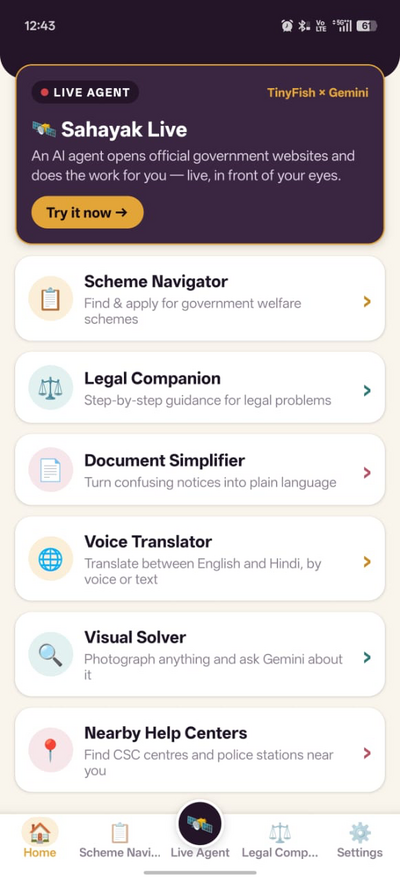
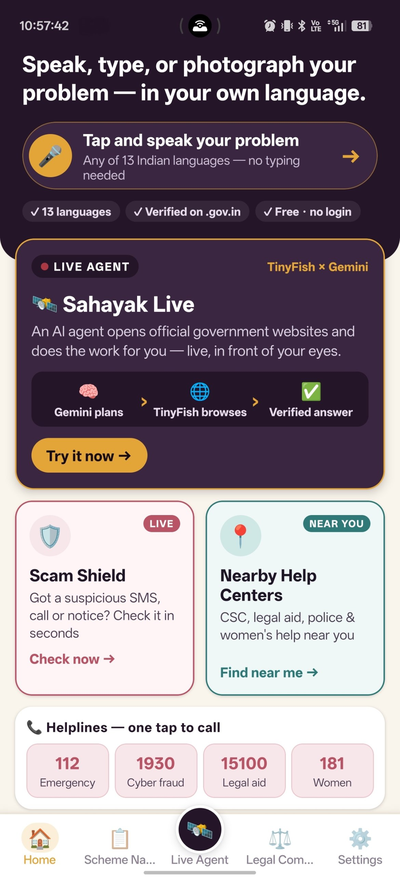
README: new home screenshots (English + Hindi), measured timings, Gemini x TinyFish cross-check flow, live self-test, business model
Claude-Session: https://claude.ai/code/session_01MCTNM78CrmoCRJn8j5Vk2K

diff --git a/README.md b/README.md
@@ -9,11 +9,12 @@ Built by **Team Hackpeeps**.
 > 🎬 **Demo video:** _add your video link here_  ·  📱 **Android APK:** built with EAS (see [Build](#build-the-android-apk))
 
 <p align="center">
-  <img src="docs/screenshots/home.png" width="190" alt="Home screen"/>
-  <img src="docs/screenshots/sahayak-live.png" width="190" alt="Sahayak Live: TinyFish cloud browser streaming the official CEIR site inside the app"/>
-  <img src="docs/screenshots/languages.png" width="190" alt="13 Indian languages"/>
+  <img src="docs/screenshots/home.png" width="180" alt="Home screen: Sahayak Live, Scam Shield, Nearby Help Centres and one-tap helplines"/>
+  <img src="docs/screenshots/home-hindi.png" width="180" alt="The same home screen in Hindi"/>
+  <img src="docs/screenshots/sahayak-live.png" width="180" alt="Sahayak Live: TinyFish cloud browser streaming the official CEIR site inside the app"/>
+  <img src="docs/screenshots/languages.png" width="180" alt="13 Indian languages"/>
 </p>
-<p align="center"><i>Home · Sahayak Live (TinyFish agent live on ceir.gov.in for a stolen phone) · 13 languages</i></p>
+<p align="center"><i>Home (English &amp; Hindi) · Sahayak Live (TinyFish agent live on ceir.gov.in for a stolen phone) · 13 languages</i></p>
 
 ---
 
@@ -37,9 +38,10 @@ Citizens don't lack schemes or laws — they lack a simple, trustworthy way to r
 | Live web (TinyFish) | **🛰 Sahayak Live** | Speak a task → an AI cloud browser opens the official site and does it **live inside the app**, with a step timeline. |
 | | **✅ Verify Live** | One tap under any answer → cross-checked against official pages → *Verified / Updated / Partial* + sources. |
 | | **🛡 Scam Shield** | Paste or photograph an SMS / notice → *Genuine / Suspicious / Likely SCAM* + 1930 helpline guidance. |
-| | **📍 Real Help Centres** | GPS → city → real CSC, DLSA, police and One Stop Centres with Call / Directions. |
+| | **📍 Nearby Help Centres** | A core feature on the home screen. GPS → city → real CSC, DLSA, police and One Stop Centres found live, with Call / Directions, filters by type, one-tap helplines (112, 1930, 15100, 181, 14599) and "Nearest on the map" buttons that work even when live search can't. |
 | | **📰 Live Updates** | This week's scheme & fraud-alert news, translated. |
-| Access for all | **13 Indian languages** | Full UI + replies in English, Hindi, Marathi, Bengali, Telugu, Tamil, Gujarati, Urdu, Kannada, Odia, Malayalam, Punjabi, Assamese. |
+| Access for all | **Tap and speak** | One big button on the home screen opens Sahayak Live; no typing needed. |
+| | **13 Indian languages** | Full UI + replies in English, Hindi, Marathi, Bengali, Telugu, Tamil, Gujarati, Urdu, Kannada, Odia, Malayalam, Punjabi, Assamese. |
 | | **Read aloud** | Every answer spoken, adjustable speed. |
 | | **Voice Translator** | Speak in one language, hear another. |
 | | **Visual Solver** | Photograph anything and ask about it. |
@@ -71,23 +73,39 @@ TinyFish is what turns Nyaya Setu from a chatbot into an agent that **works on t
 | **Search** | `GET api.search.tinyfish.ai` | Finds the **exact official page** for Sahayak Live, plus Verify Live, Scam Shield, Real Help Centres and Live Updates. India-located; `.gov.in` / `.nic.in` ranked first; 7-day window for news. |
 | **Fetch** | `POST api.fetch.tinyfish.ai` | Reads official pages as clean markdown for Verify Live and the quick answer; every answer cites its source. |
 
-#### How a Sahayak Live task runs
+#### How a Sahayak Live task runs — Gemini and TinyFish working together
+The app shows this hand-off live as a 4-step strip: **Understand (Gemini) → Find page (TinyFish) → Browse live (TinyFish) → Verify (Gemini)**.
+
 ```mermaid
 flowchart TD
   A[Citizen speaks a task<br/>any of 13 languages] --> B[Gemini plans<br/>official site + search query]
-  B --> C[TinyFish Search + Fetch<br/>reads up to 3 official pages]
+  A --> I0[Gemini instant answer<br/>spoken in ~2 s]
+  B --> C[TinyFish Search + Fetch<br/>reads official pages]
   B --> D[TinyFish Search<br/>finds the EXACT page on the site / myScheme]
-  C --> E[Quick answer spoken in ~15 s]
-  D --> F[TinyFish Web Agent opens it<br/>live stream inside the app]
+  C --> E[Answer read from official pages<br/>~15–26 s]
+  D --> F[TinyFish Web Agent opens it<br/>live stream right under the task]
   F --> G{Blocked? 403 / captcha}
   G -- yes --> H[Move to next official page<br/>up to 3 tries]
   H --> F
   G -- no --> I[Structured result<br/>eligibility · documents · steps · link]
-  I --> J[Gemini explains in the citizen's language<br/>'Verified live on the official website']
-  E -.if the agent can't finish.-> J
+  I --> J[Gemini cross-checks its instant answer<br/>against the official page:<br/>'matches' or 'corrected' — read aloud]
+  E -.if the agent can't finish in 3 min.-> J
+  I0 -.compared in.-> J
 ```
 
-- **Deep-link start.** Starting the agent on the exact scheme page instead of a home page cut a live test run from **94 s to 52 s** (same PMAY-Urban task, TinyFish server timestamps).
+**Measured on 22 Oct 2026** (live end-to-end self-test on real APIs, Android app code):
+
+| Step | Time |
+|---|---|
+| Spoken instant answer (Gemini) | ~2 s |
+| Answer read from official pages (TinyFish Search + Fetch → Gemini) | 15–26 s |
+| Live agent finishes on myScheme (PM-KISAN, 16 visible steps) | ~75–105 s |
+| Scam Shield verdict | ~7 s |
+| Help Centres found live (East Delhi) | ~5 s |
+
+The live agent does not always finish (slow government pages); after 3 minutes the app keeps the answer read from official pages, so the citizen is never left empty-handed. When the agent finishes, its live view stays on screen for 10 s with a ✓ DONE badge.
+
+- **Deep-link start.** The agent starts on the exact scheme page instead of a home page, so it reads instead of searching around.
 - **Knows which government sites block cloud browsers.** We tested 20 official hosts. The ones that return 403 or time out (e.g. `beneficiary.nha.gov.in`, `pmjay.gov.in`, `nfsa.gov.in`) are in `CLOUD_BLOCKED` and never chosen; the agent is sent to a reachable official page instead (e.g. `myscheme.gov.in/schemes/ab-pmjay`).
 - **Never stuck, never empty-handed.** If an early step shows 403 / captcha / a blank page, the run is cancelled and restarted on the next official page. A quick Search + Fetch answer from the same official sources is always ready.
 - **Read-only and official-only by design.** Every agent goal says: never log in, never type personal details, never submit forms or pay, and never leave `.gov.in` / `.nic.in` websites.
@@ -95,11 +113,13 @@ flowchart TD
 
 Excerpt of the goal the app sends to the TinyFish Web Agent (`buildGoal` in `liveIntel.js`):
 ```text
-You are already on the official page that should contain the answer. Work fast:
+The citizen is WATCHING this browser live on their phone, so browse visibly and steadily:
+scroll down through the page and open each relevant section one by one so they can follow
+along. Stay focused on this task — about 10 to 20 actions — and do not wander to unrelated pages.
 1. If a pop-up, cookie banner or language selector appears, close it.
-2. Read the page. Scroll down. If it has tabs (Benefits, Eligibility, Documents Required,
-   Application Process, FAQ), click each relevant tab and read it.
-3. Only if this page does not answer the task, click at most ONE relevant link on the same site.
+2. Scroll through the whole page. Open and read each section that answers the task, one at a
+   time: Details, Benefits, Eligibility, Exclusions, Application Process, Documents Required.
+3. Open ONE more official page only if the documents or how-to-apply steps are missing here.
 4. Never log in, never type personal details, never submit forms, never pay, and never
    leave official .gov.in / .nic.in websites.
 Return JSON: title, summary, eligibility, benefits, documents[], steps[], fees, helpline, official_link.
@@ -126,7 +146,7 @@ If the page shows 403 / Forbidden / a captcha / stays blank, return {"blocked": 
 |---|---|
 | App | React Native 0.86 · React 19.2 · **Expo SDK 57** |
 | Navigation | React Navigation 7 (bottom tabs + native stack) |
-| AI | Google Gemini `gemini-3.5-flash-lite` (text, image and audio in one API) |
+| AI | Google Gemini `gemini-3.5-flash-lite` (text, image and audio in one API), with automatic failover to `gemini-flash-lite-latest` → `gemini-3-flash-preview` → `gemini-flash-latest` → `gemini-3.8-flash` when a model is busy |
 | Live web | TinyFish Agent, Search & Fetch APIs · `react-native-webview` for the live view |
 | Voice | `expo-audio` (recording) · `expo-speech` (text-to-speech) |
 | Device | `expo-image-picker` (camera) · `expo-location` (GPS) · `expo-file-system` |
@@ -142,10 +162,11 @@ src/screens/               Home, Scheme Navigator, Legal Companion, Document Sim
 src/services/geminiApi.js  Gemini client (text, image, audio, JSON) with retry
 src/services/tinyfishApi.js TinyFish Agent / Search / Fetch client (+ demo mode)
 src/services/liveIntel.js  Verify Live, Scam Shield, Help Centres, Live Updates, Sahayak Live
-src/components/            AgentLiveView (live browser), LiveCard, chat UI
+src/components/            AgentLiveView (live browser), PipelineStrip (Gemini × TinyFish steps), LiveCard, chat UI
 src/utils/                 voiceRecorder, speaker, language helpers, chat storage
 src/data/                  schemes, legal scenarios, 13-language translations
 scripts/diagnose-sahayak.sh  checks Gemini + all 3 TinyFish APIs from the terminal
+scripts/selftest.cjs       live end-to-end test of the real app services (see below)
 ```
 
 ## Setup
@@ -170,6 +191,13 @@ Without keys the app runs in **demo mode** with sample data, so it never breaks 
 
 **Check the APIs:** `bash scripts/diagnose-sahayak.sh` (prints only HTTP status, never your keys).
 
+**Live self-test:** runs the app's real Gemini + TinyFish code in Node with your `.env` keys — every Gemini model, TinyFish Search / Fetch / Agent, task planning, full Sahayak Live runs (English + Hindi), Scam Shield, Help Centres, Live Updates and Verify Live — and saves `scripts/selftest-report.json`.
+```bash
+node scripts/selftest.cjs            # full, ~6 min
+node scripts/selftest.cjs --quick    # ~2 min
+node scripts/selftest.cjs --sahayak  # only the live-agent tasks
+```
+
 ## Build the Android APK
 
 ```bash
@@ -185,8 +213,20 @@ EAS prints a download link / QR code for the `.apk` when the build finishes.
 |---|---|
 | Expo Go says *incompatible SDK* | Install Expo Go for SDK 57 (press `a` in the Expo terminal with the phone connected). |
 | `failed to start tunnel` | Skip `--tunnel`; put phone and computer on the same Wi-Fi / hotspot. |
-| Gemini `503` | Google's servers are busy — the app retries automatically; try again in a minute. |
+| Gemini `503` | Google's servers are busy — the app moves to the next Gemini model automatically. |
+| Gemini `404 … no longer available` | That model was retired; it is skipped automatically (the 2.5 models were removed from the list). |
 | TinyFish `403 … custom max steps` | Custom `agent_config` needs TinyFish beta access; the app already sends only supported fields. |
+
+## Business model
+**₹0 for citizens, always — no ads, no data sale.** Revenue comes from the people who serve citizens:
+
+| Stream | Who pays | Price |
+|---|---|---|
+| CSC Pro (main) | Common Service Centre operators | ₹499 / month per centre (~₹17 a day) |
+| District licence | District administration / DLSA | ₹3 lakh / year per district |
+| CSR & grants | CSR and digital-inclusion funds | Sponsored free seats for NGOs, ASHA and legal-aid volunteers |
+
+Market: TAM ≈ ₹324 Cr / year (5,01,731 CSCs + ~800 districts) · SAM ≈ ₹66 Cr · first-year target ≈ ₹3.3 Cr (1% of CSCs + 10 districts). Price and adoption are assumptions to be validated in the pilot.
 
 ## Roadmap
 Pilot with CSCs, NGOs and DLSA → WhatsApp bot and IVR/SMS for feature phones → all 22 scheduled languages, iOS and consent-based form filling.
